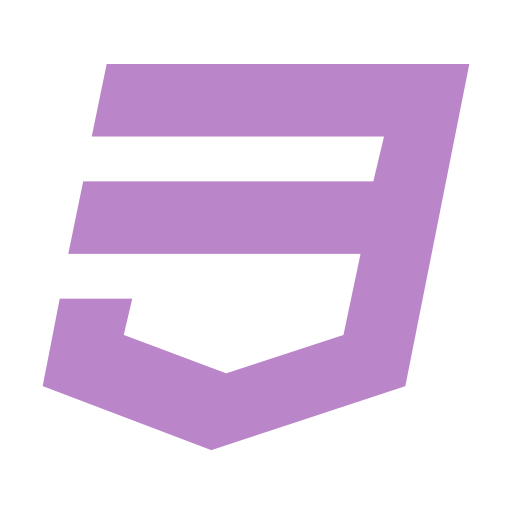
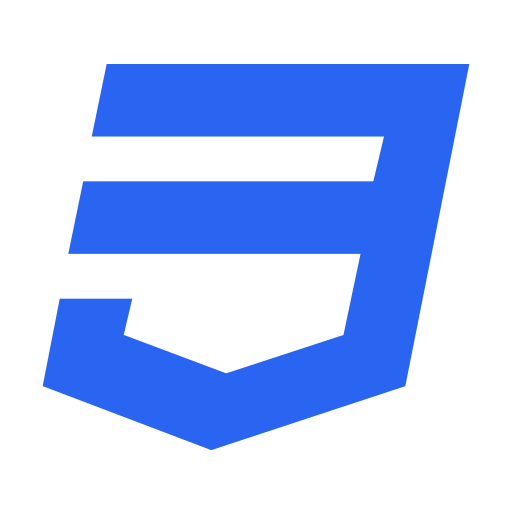
Added a page for Tech Stack

diff --git a/assets/js/techstack.js b/assets/js/techstack.js
@@ -7,47 +7,47 @@ const techStack = [
   {
     langImage: "assets/images/techstack-page/html.png",
     langName: "HyperText Markup Language",
-    langDesc: "<li>The HyperText Markup Language, or HTML is the standard markup language for documents designed to be displayed in a web browser</li><li><strong class='proficiency_title'>Proficiency</strong>:<div class='progress'><div class='progress-bar bg-primary' role='progressbar' aria-valuenow='95' aria-valuemin='0' aria-valuemax='100' style='width:95%;'><span>95%</span></div></div></li><li class='project_item'><strong class='project_title'>Project</strong>: <a href='https://github.com/smaranjitghose/awesome-portfolio-websites' target='_blank'>HTML</a></li>",
+    langDesc: "<li>The HyperText Markup Language, or HTML is the standard markup language for documents designed to be displayed in a web browser</li>",
   },
   {
     langImage: "assets/images/techstack-page/css.png",
     langName: "Cascading Style Sheets",
-    langDesc: "<li>Cascading Style Sheets is a style sheet language used for describing the presentation of a document written in a markup language such as HTML</li><li><strong class='proficiency_title'>Proficiency</strong>:<div class='progress'><div class='progress-bar bg-primary' role='progressbar' aria-valuenow='70' aria-valuemin='0' aria-valuemax='100' style='width:70%;'><span>70%</span></div></div></li><li class='project_item'><strong class='project_title'>Project</strong>: <a href='https://github.com/smaranjitghose/awesome-portfolio-websites' target='_blank'>CSS</a></li>",
+    langDesc: "<li>Cascading Style Sheets is a style sheet language used for describing the presentation of a document written in a markup language such as HTML</li>",
   },
   {
     langImage: "assets/images/techstack-page/javascript.png",
     langName: "JavaScript",
-    langDesc: "<li>JavaScript, often abbreviated JS, is a programming language that is one of the core technologies of the World Wide Web, alongside HTML and CSS</li><li><strong class='proficiency_title'>Proficiency</strong>:<div class='progress'><div class='progress-bar bg-primary' role='progressbar' aria-valuenow='75' aria-valuemin='0' aria-valuemax='100' style='width:75%;'><span>75%</span></div></div></li><li class='project_item'><strong class='project_title'>Project</strong>: <a href='https://github.com/smaranjitghose/awesome-portfolio-websites' target='_blank'>JAVASCRIPT</a></li>",
+    langDesc: "<li>JavaScript, often abbreviated JS, is a programming language that is one of the core technologies of the World Wide Web, alongside HTML and CSS</li>",
   },
   {
     langImage: "assets/images/techstack-page/node.png",
     langName: "Node",
-    langDesc: "<li>Node.js is an open-source, cross-platform, back-end JavaScript runtime environment that runs on the V8 engine and executes JavaScript code outside a web browser</li><li><strong class='proficiency_title'>Proficiency</strong>:<div class='progress'><div class='progress-bar bg-primary' role='progressbar' aria-valuenow='60' aria-valuemin='0' aria-valuemax='100' style='width:60%;'><span>60%</span></div></div></li><li class='project_item'><strong class='project_title'>Project</strong>: <a href='https://github.com/smaranjitghose/awesome-portfolio-websites' target='_blank'>NODE</a></li>",
+    langDesc: "<li>Node.js is an open-source, cross-platform, back-end JavaScript runtime environment that runs on the V8 engine and executes JavaScript code outside a web browser</li>",
   },
   {
     langImage: "assets/images/techstack-page/python.png",
     langName: "Python",
-    langDesc: "<li>Python is an interpreted high-level general-purpose programming language</li><li><strong class='proficiency_title'>Proficiency</strong>:<div class='progress'><div class='progress-bar bg-primary' role='progressbar' aria-valuenow='80' aria-valuemin='0' aria-valuemax='100' style='width:80%;'><span>80%</span></div></div></li><li class='project_item'><strong class='project_title'>Project</strong>: <a href='https://github.com/smaranjitghose/awesome-portfolio-websites' target='_blank'>PYTHON</a></li>",
+    langDesc: "<li>Python is an interpreted high-level general-purpose programming language</li>",
   },
   {
     langImage: "assets/images/techstack-page/cpp.png",
     langName: "C++",
-    langDesc: "<li>C++ is a general-purpose programming language created by Bjarne Stroustrup as an extension of the C programming language, or C with Classes</li><li><strong class='proficiency_title'>Proficiency</strong>:<div class='progress'><div class='progress-bar bg-primary' role='progressbar' aria-valuenow='50' aria-valuemin='0' aria-valuemax='100' style='width:50%;'><span>50%</span></div></div></li><li class='project_item'><strong class='project_title'>Project</strong>: <a href='https://github.com/smaranjitghose/awesome-portfolio-websites' target='_blank'>C++</a></li>",
+    langDesc: "<li>C++ is a general-purpose programming language created by Bjarne Stroustrup as an extension of the C programming language, or C with Classes</li>",
   },
   {
     langImage: "assets/images/techstack-page/git.png",
     langName: "Git",
-    langDesc: "<li>Git is software for tracking changes in any set of files, usually used for coordinating work among programmers collaboratively developing source code during software development.</li><li><strong class='proficiency_title'>Proficiency</strong>:<div class='progress'><div class='progress-bar bg-primary' role='progressbar' aria-valuenow='80' aria-valuemin='0' aria-valuemax='100' style='width:80%;'><span>80%</span></div></div></li><li class='project_item'><strong class='project_title'>Project</strong>: <a href='https://github.com/smaranjitghose/awesome-portfolio-websites' target='_blank'>GIT</a></li>",
+    langDesc: "<li>Git is software for tracking changes in any set of files, usually used for coordinating work among programmers collaboratively developing source code during software development.</li>",
   },
   {
     langImage: "assets/images/techstack-page/bootstrap.png",
     langName: "Bootstrap",
-    langDesc: "<li>Bootstrap is a free and open-source CSS framework directed at responsive, mobile-first front-end web development</li><li><strong class='proficiency_title'>Proficiency</strong>:<div class='progress'><div class='progress-bar bg-primary' role='progressbar' aria-valuenow='95' aria-valuemin='0' aria-valuemax='100' style='width:95%;'><span>95%</span></div></div></li><li class='project_item'><strong class='project_title'>Project</strong>: <a href='https://github.com/smaranjitghose/awesome-portfolio-websites' target='_blank'>BOOTSTRAP</a></li>",
+    langDesc: "<li>Bootstrap is a free and open-source CSS framework directed at responsive, mobile-first front-end web development</li>",
   },
   {
     langImage: "assets/images/techstack-page/react.png",
     langName: "React",
-    langDesc: "<li>React is a free and open-source front-end JavaScript library for building user interfaces based on UI components</li><li><strong class='proficiency_title'>Proficiency</strong>:<div class='progress'><div class='progress-bar bg-primary' role='progressbar' aria-valuenow='90' aria-valuemin='0' aria-valuemax='100' style='width:90%;'><span>90%</span></div></div></li><li class='project_item'><strong class='project_title'>Project</strong>: <a href='https://github.com/smaranjitghose/awesome-portfolio-websites' target='_blank'>REACT</a></li>",
+    langDesc: "<li>React is a free and open-source front-end JavaScript library for building user interfaces based on UI components</li>",
   },
 ];
 

diff --git a/assets/css/techstack.css b/assets/css/techstack.css
@@ -113,8 +113,6 @@ html[light-mode="light"] .tech_card img{
     }
     50%{
         transform: scale(1.15);
-        /* filter: brightness(0.7) invert(50%);/ */
-        filter: invert(10%);
     }100%{
         transform: scale(1);
     }
@@ -125,8 +123,6 @@ html[light-mode="light"] .tech_card img{
     }
     50%{
         transform: scale(1.15);
-        /* filter: brightness(0.7) invert(50%);/ */
-        filter: invert(60%);
     }100%{
         transform: scale(1);
     }
@@ -179,31 +175,46 @@ html[light-mode="light"] .tech_card img{
 
 .techstacks_icons .techstack_icon i {
     font-size: 2.5rem;
-    opacity: .4;
+    opacity: .7;
 }
-
+html[light-mode="light"] .techstacks_icons .techstack_icon i {
+    font-size: 2.5rem;
+    opacity: .7;
+}
 div.techstack_icon>i:hover {
     opacity: 1;
     transition: opacity .2s linear;
 }
 
-div.html_icon.techstack_icon>i.fa-html5:hover {
-    color: #FF5733 !important;
+div.html_icon.techstack_icon>i.fa-html5 {
+    /* color: #FF5733 !important; */
+    display: inline-block;
+    background: linear-gradient(-90deg, #F06529 50%, #E34C26 50%);
+    -webkit-background-clip: text;
+    -webkit-text-fill-color: transparent;
+    -moz-background-clip: text;
+    -moz-text-fill-color: transparent;
 }
 
-div.techstack_icon>i.fa-css3:hover {
-    color: #2965f1 !important;
+div.techstack_icon>i.fa-css3-alt {
+    /* color: #2965f1 !important; */
+    display: inline-block;
+    background: linear-gradient(-90deg, #264de4 50%, #2965f1 50%);
+    -webkit-background-clip: text;
+    -webkit-text-fill-color: transparent;
+    -moz-background-clip: text;
+    -moz-text-fill-color: transparent;
 }
 
-div.techstack_icon>i.fa-bootstrap:hover {
+div.techstack_icon>i.fa-bootstrap {
     color: #ad428d !important;
 }
 
-div.techstack_icon>i.fa-js-square:hover {
+div.techstack_icon>i.fa-js-square {
     color: #F0DB4F;
 }
 
-div.techstack_icon>i.fa-python:hover {
+div.techstack_icon>i.fa-python {
     display: inline-block;
     background: linear-gradient(-120deg, #ffde57, #4584b6, #646464);
     -webkit-background-clip: text;
@@ -212,19 +223,19 @@ div.techstack_icon>i.fa-python:hover {
     -moz-text-fill-color: transparent;
 }
 
-div.techstack_icon>i.fa-react:hover {
+div.techstack_icon>i.fa-react {
     color: #61DBFB;
 }
 
-div.techstack_icon>i.fa-git:hover {
+div.techstack_icon>i.fa-git-alt {
     color: #F1502F;
 }
 
-div.techstack_icon>i.fa-node:hover {
+div.techstack_icon>i.fa-node {
     color: #3C873A;
 }
 
-div.techstack_icon>i.fa-cuttlefish:hover {
+div.techstack_icon>i.fa-cuttlefish {
     color: #044F88;
 }
 #box1{
@@ -258,18 +269,6 @@ div.techstack_icon>i.fa-cuttlefish:hover {
     
 }
 
-
-
-.progress {
-    border-radius: 10px;
-    margin-top: 3px;
-  }
-  
-  .progress .progress-bar {
-    border-radius: 10px;
-    transition: 2s;
-    background-color: #bb86c9 !important;
-  }
 .project_item{
     margin-top: 4px;
 }

diff --git a/techstack.html b/techstack.html
@@ -80,7 +80,6 @@
         </div>
     </div>
     <!-- Dynamic Navbar -->
-
     <div class="main pt-5">
         <section>
             <div class="container-fluid px-3">
@@ -206,12 +205,12 @@
                     </p>
                     <div class="techstacks_icons" style="display: flex;flex-wrap: wrap;">
                         <div class="html_icon techstack_icon"><i class="fab fa-html5"></i></div>
-                        <div class="css_icon techstack_icon"><i class="fab fa-css3"></i></div>
+                        <div class="css_icon techstack_icon"><i class="fab fa-css3-alt"></i></div>
                         <div class="js_icon techstack_icon"><i class="fab fa-js-square"></i></div>
                         <div class="node_icon techstack_icon"><i class="fab fa-node"></i></div>
                         <div class="python_icon techstack_icon"><i class="fab fa-python"></i></div>
                         <div class="cpp_icon techstack_icon"><i class="fab fa-cuttlefish">++</i></div>
-                        <div class="git_icon techstack_icon"><i class="fab fa-git"></i></div>
+                        <div class="git_icon techstack_icon"><i class="fab fa-git-alt"></i></div>
                         <div class="bootstrap_icon techstack_icon"><i class="fab fa-bootstrap"></i></div>
                         <div class="react_icon techstack_icon"><i class="fab fa-react"></i></div>
                     </div>
